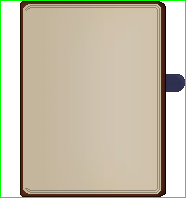
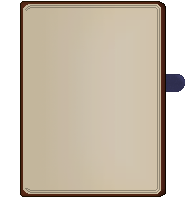
Remove green debug border Add support for browser dark mode

Changed region(s): [[0.0, 0.0, 1.0, 1.0]]

diff --git a/src/styling/manual.scss b/src/styling/manual.scss
@@ -9,6 +9,10 @@ $mobile-aspect-ratio: "2 / 2.75";
     font-size: 5.5vmin; //for phones
   }
 
+  @media (prefers-color-scheme: dark) {
+    background: rgb(43, 42, 51);
+  }
+
   // no blurry pictures here!
   image-rendering: crisp-edges;
   image-rendering: pixelated;
